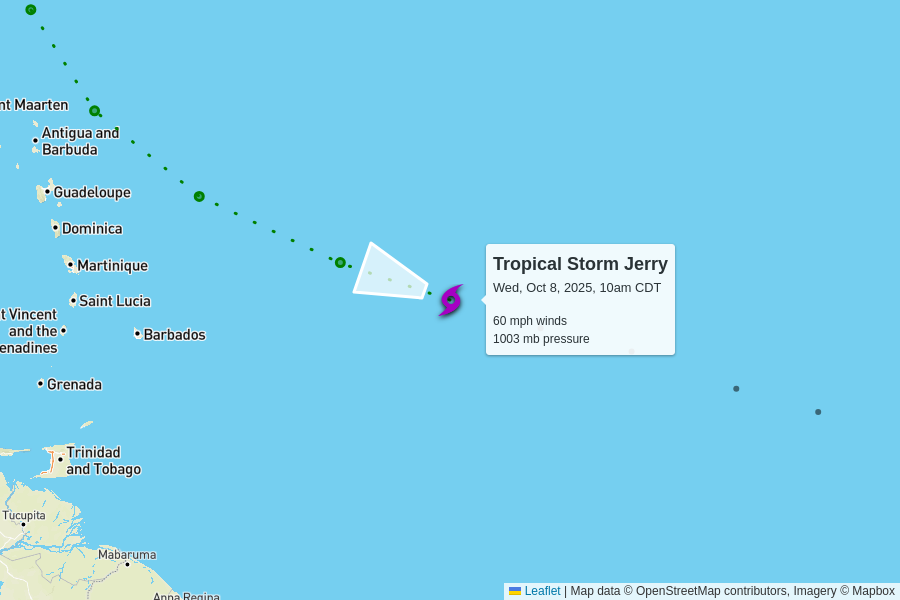
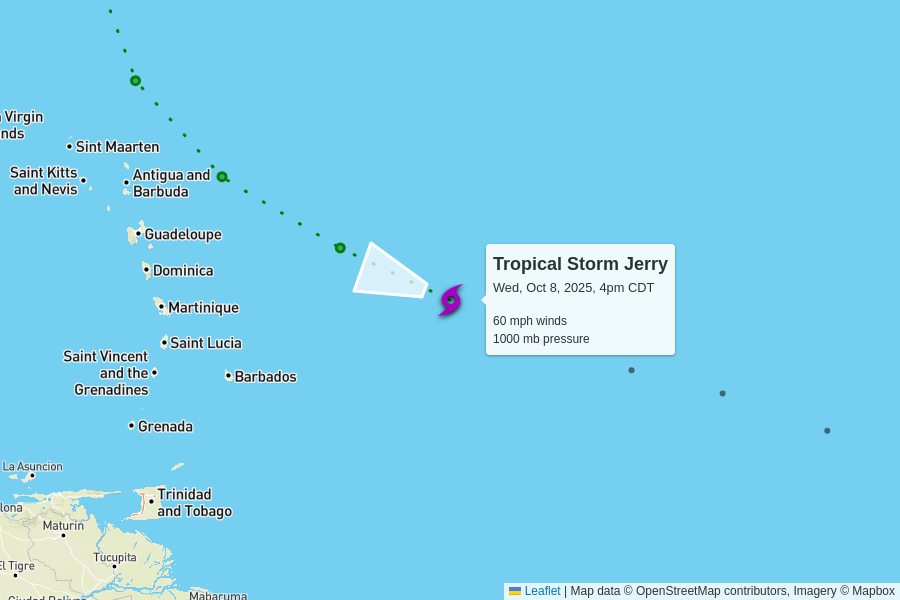
automatic update

diff --git a/docs/index.html b/docs/index.html
@@ -102,7 +102,7 @@
         <td colspan="6" class="storm category-0" >
           <h2>
             Tropical Storm Jerry
-            <p class="updated">last updated <span data-time>2025-10-08T15:00:00.000Z</span></p>
+            <p class="updated">last updated <span data-time>2025-10-08T21:00:00.000Z</span></p>
           </h2>
         </td>
       </tr>
@@ -117,8 +117,8 @@
       </tr>
       <tr>
         <td class="spacer"></td>
-        <td>60 mph<br>+10 mph since last update</td>
-        <td>1003 mb<br>0 mb since last update</td>
+        <td>60 mph<br>0 mph since last update</td>
+        <td>1000 mb<br>-3 mb since last update</td>
         <td>
           23 mph to the west-northwest
           <br/>
